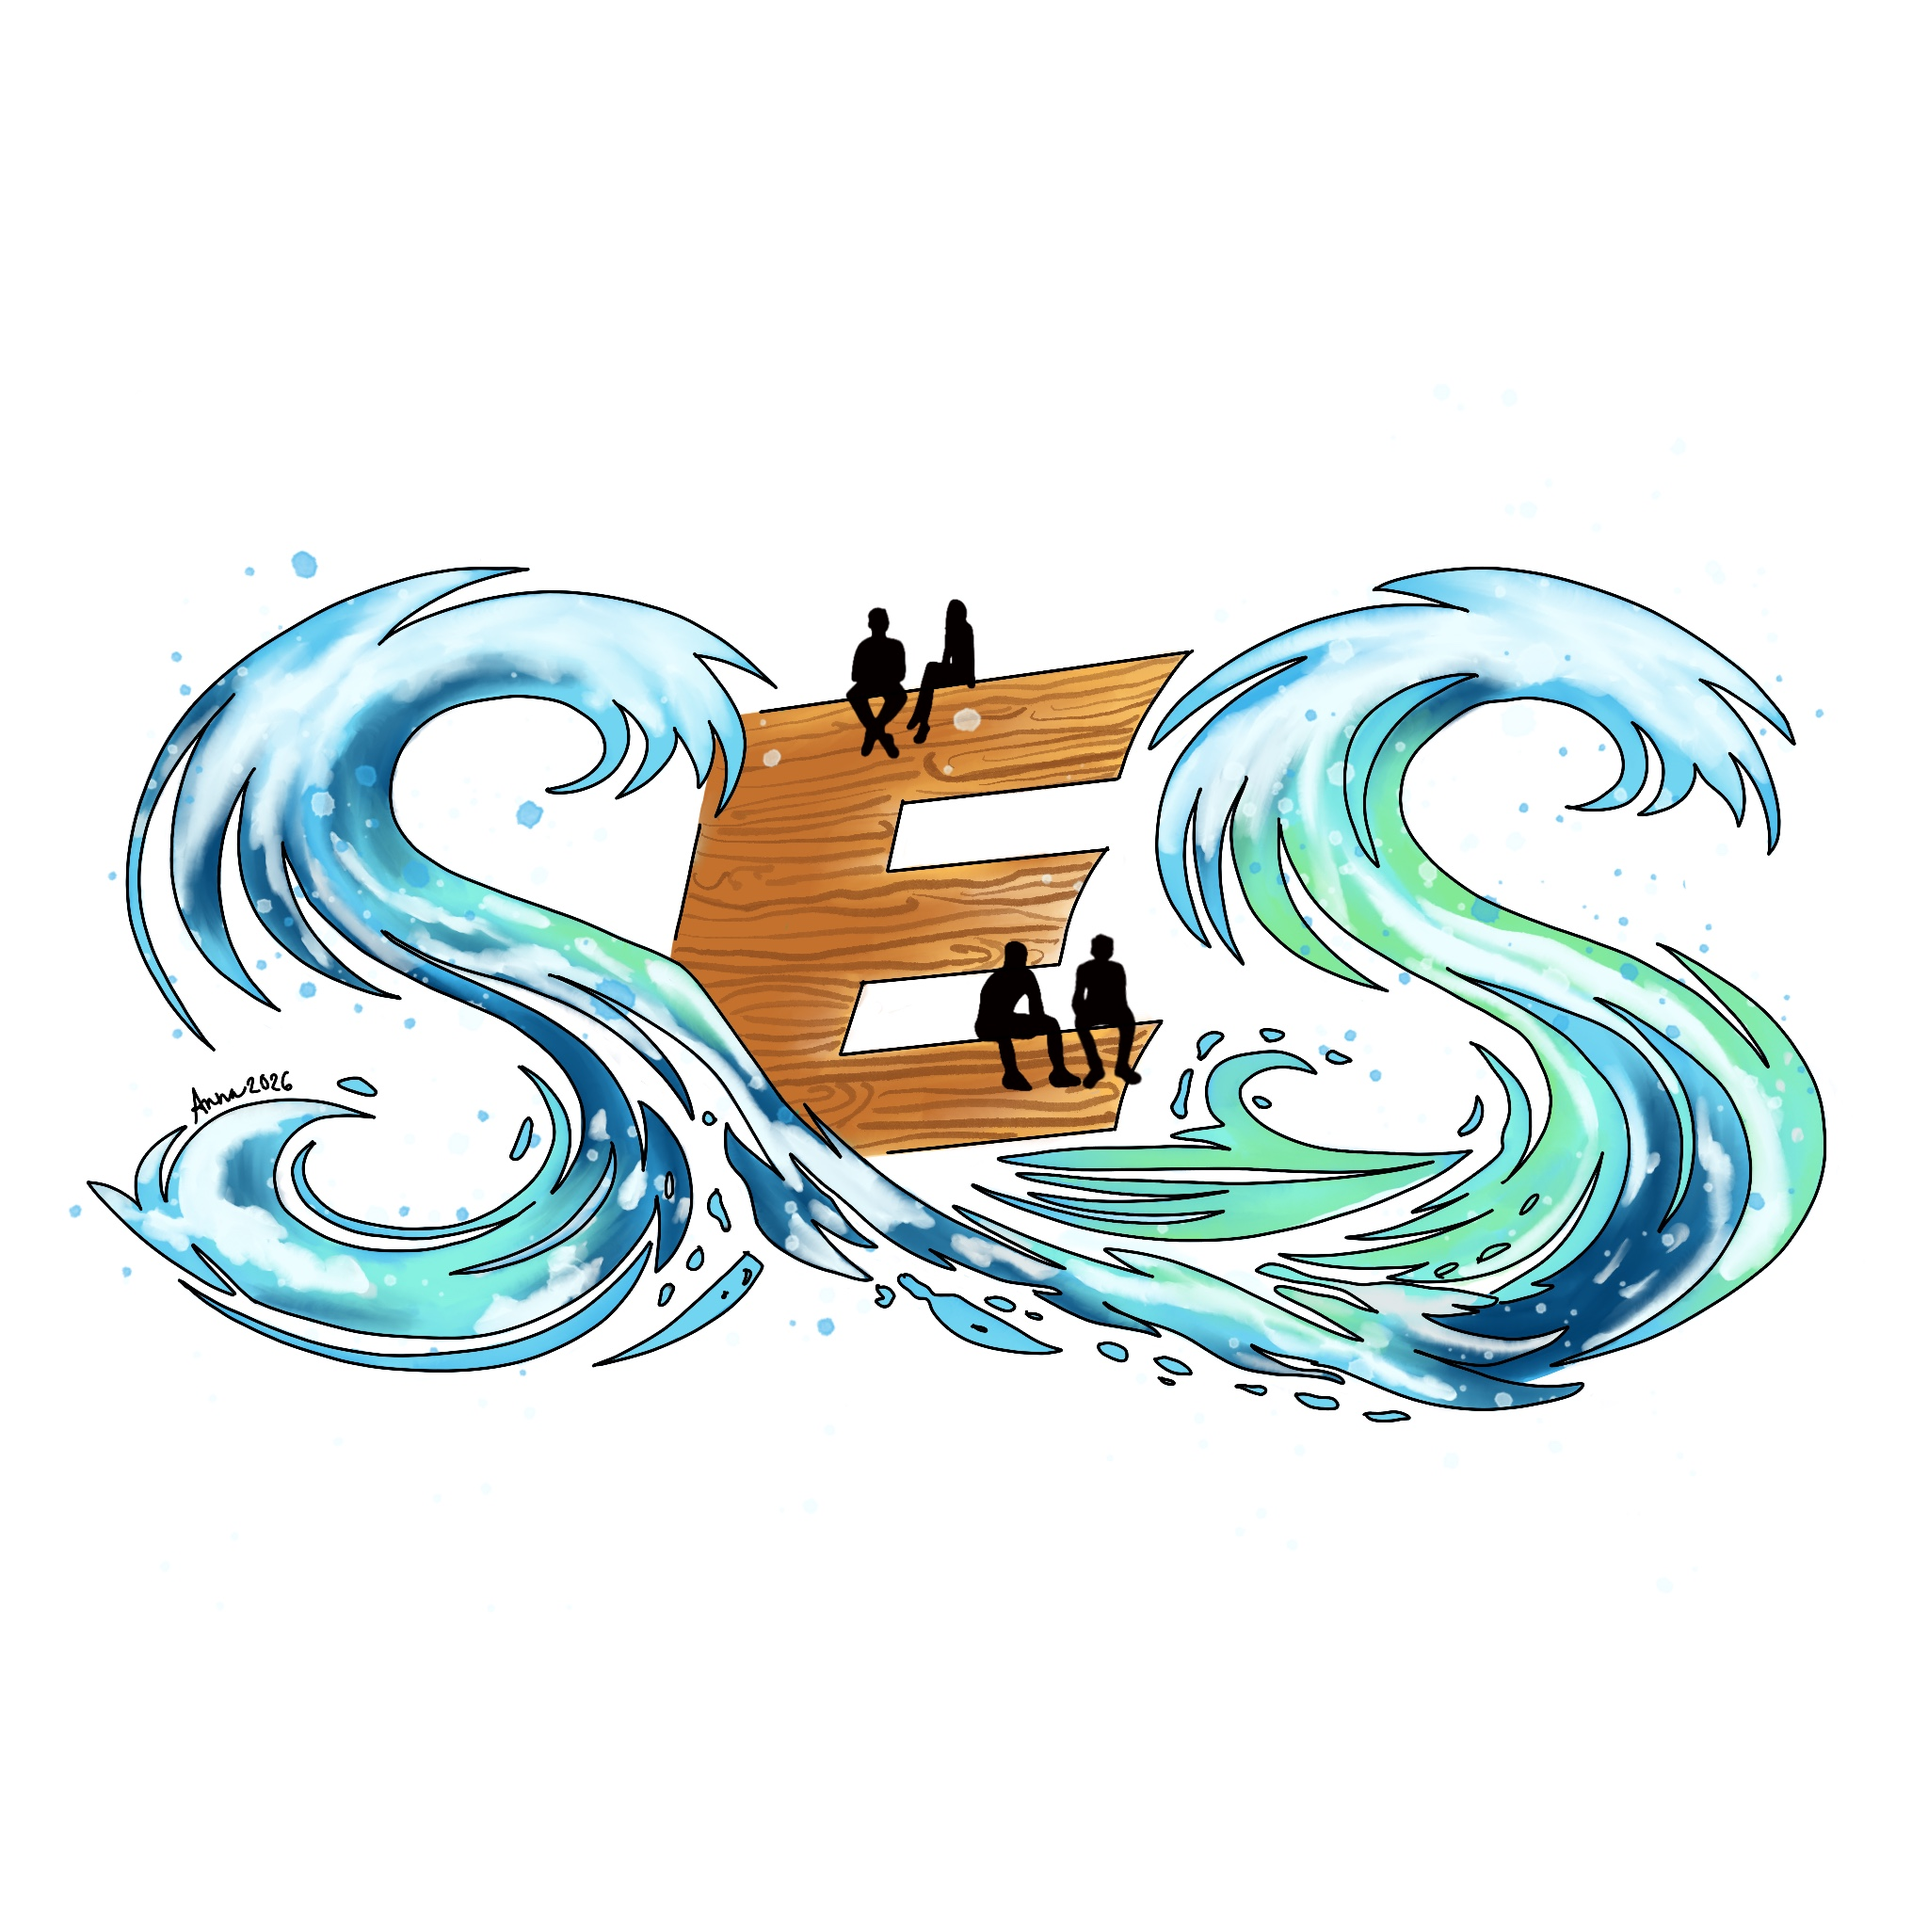
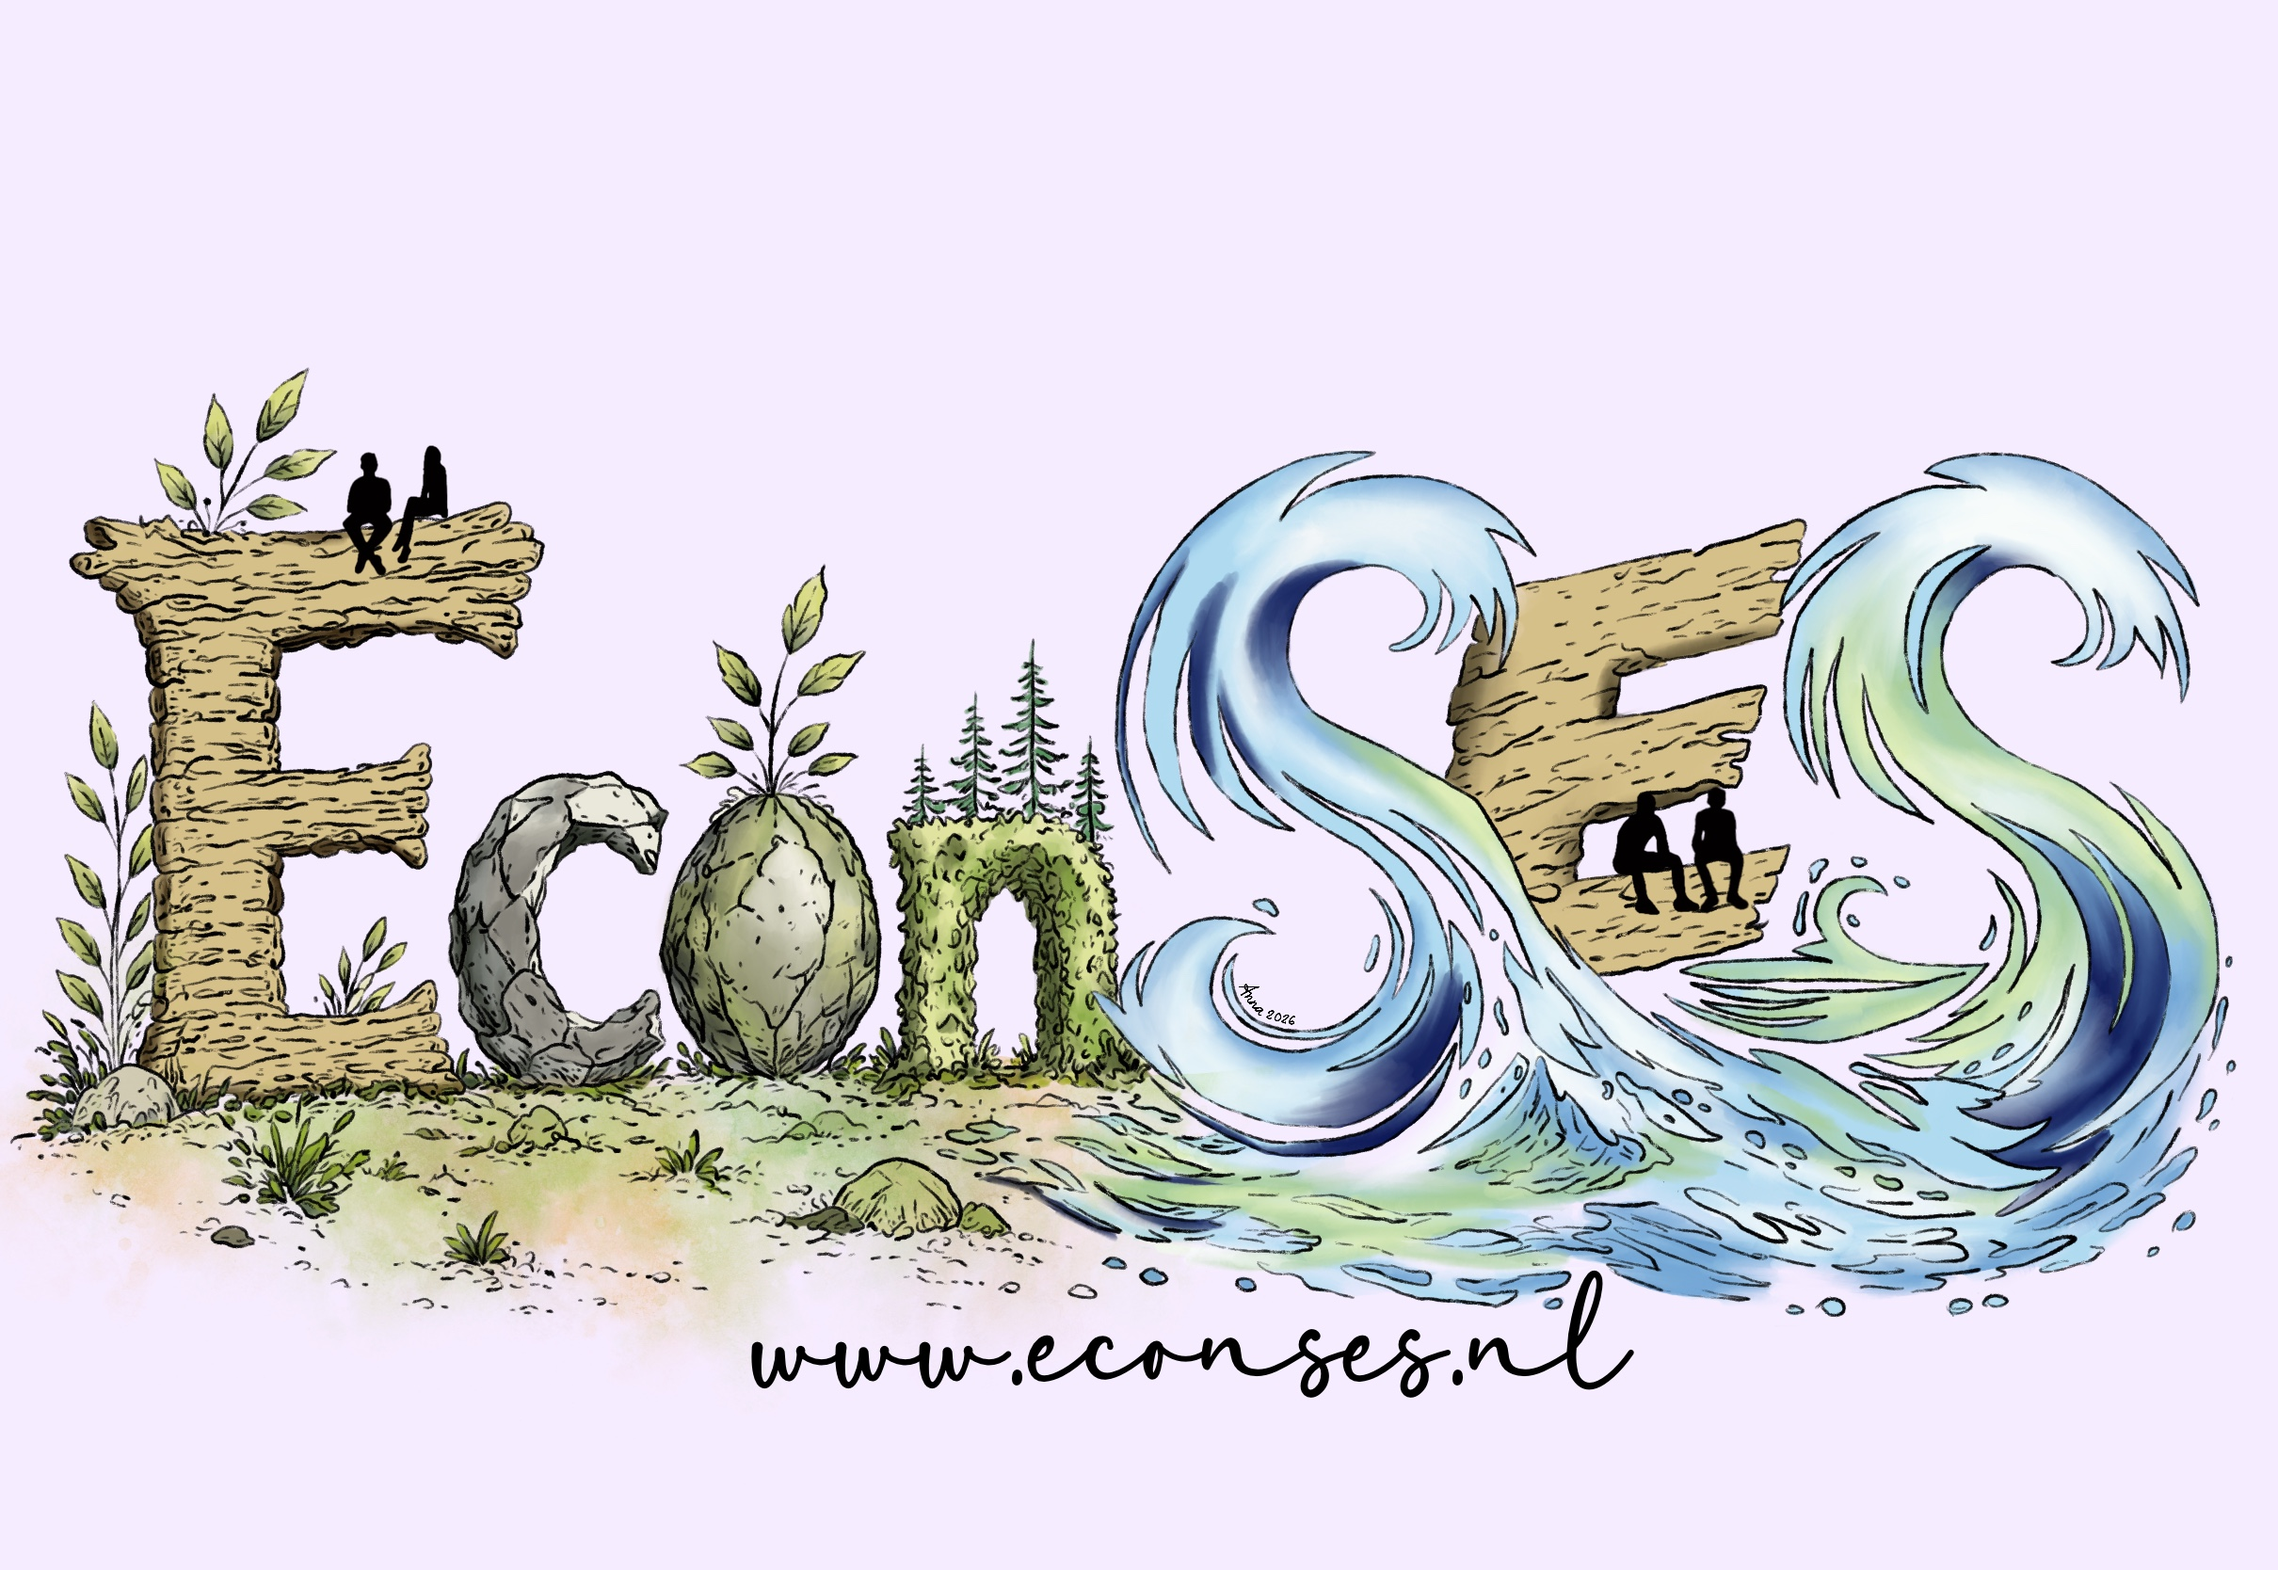
disappointment

diff --git a/content/authors/andries richter/_index.md b/content/authors/andries richter/_index.md
@@ -18,24 +18,25 @@ organizations:
     url: ''
 
 # Short bio (displayed in user profile at end of posts)
-bio: My research interests include distributed robotics, mobile computing and programmable matter.
+bio: My research focuses on the economics of social–ecological systems, using theoretical models, causal empirical methods, and economic experiments to understand how institutions and human behavior affect the sustainable management of natural resources.
 
 interests:
-  - Artificial Intelligence
-  - Computational Linguistics
-  - Information Retrieval
+  - Environmental Economics
+  - Natural Resource Economics
+  - Fisheries Economics
+  - Behavioral Economics
 
 education:
   courses:
     - course: PhD in Artificial Intelligence
-      institution: Stanford University
-      year: 2012
-    - course: MEng in Artificial Intelligence
-      institution: Massachusetts Institute of Technology
-      year: 2009
-    - course: BSc in Artificial Intelligence
-      institution: Massachusetts Institute of Technology
-      year: 2008
+      institution: Wageningen University and Research
+      year: 2011
+    - course: MSc Economics and Business
+      institution: University of Groningen
+      year: 2006
+    - course: BSc Economics and Business
+      institution: University of Groningen
+      year: 2003
 
 # Social/Academic Networking
 # For available icons, see: https://docs.hugoblox.com/getting-started/page-builder/#icons
@@ -44,16 +45,16 @@ education:
 social:
   - icon: envelope
     icon_pack: fas
-    link: 'mailto:test@example.org'
-  - icon: twitter
-    icon_pack: fab
-    link: https://twitter.com/GeorgeCushen
+    link: 'mailto:andries.richter@wur.nl'
+#  - icon: twitter
+#    icon_pack: fab
+#    link: https://twitter.com/GeorgeCushen
   - icon: google-scholar
     icon_pack: ai
-    link: https://scholar.google.co.uk/citations?user=sIwtMXoAAAAJ
-  - icon: github
-    icon_pack: fab
-    link: https://github.com/gcushen
+    link: https://scholar.google.com/citations?user=Si3b4iQAAAAJ&hl=en&oi=ao
+#  - icon: github
+#    icon_pack: fab
+#    link: https://github.com/gcushen
 # Link to a PDF of your resume/CV from the About widget.
 # To enable, copy your resume/CV to `static/files/cv.pdf` and uncomment the lines below.
 # - icon: cv
@@ -72,6 +73,4 @@ user_groups:
   - Core Team
 ---
 
-Nelson Bighetti is a professor of artificial intelligence at the Stanford AI Lab. His research interests include distributed robotics, mobile computing and programmable matter. He leads the Robotic Neurobiology group, which develops self-reconfiguring robots, systems of self-organizing robots, and mobile sensor networks.
-
-Lorem ipsum dolor sit amet, consectetur adipiscing elit. Sed neque elit, tristique placerat feugiat ac, facilisis vitae arcu. Proin eget egestas augue. Praesent ut sem nec arcu pellentesque aliquet. Duis dapibus diam vel metus tempus vulputate.
+Andries Richter is an Associate Professor at Environmental Economics and Natural Resources Group at Wageningen University & Research. His research focuses on the economics of social–ecological systems, with particular emphasis on how institutions, human behavior, and social norms shape the sustainable management of natural resources. He leads the Economics of Social–Ecological Systems Lab, where he combines theoretical modelling, causal empirical analysis, and economic experiments to study the interactions between society and ecosystems, with applications in environmental governance, marine systems, and renewable resource management.

diff --git a/content/_index.md b/content/_index.md
@@ -5,23 +5,40 @@ date: 2022-10-24
 type: landing
 
 sections:
-  - block: hero
+  # Full-width image section
+  - block: markdown
     content:
-      title: |
-        Economics of Social-Ecological Systems
-      image:
-        filename: welcome.jpg
+      title:
+      subtitle:
       text: |
-        <br>
-        
-        The **Economics of Social-Ecological Systems** is one of the four 
+        <div class="welcome-image">
+          <img src="/media/welcome.jpg"
+               alt="Economics of Social-Ecological Systems">
+        </div>
+    design:
+      columns: '1'
+      css_class: welcome-image-section
+      spacing:
+        padding: ["0", "0", "0", "0"]
+
+  # Introduction text section
+  - block: markdown
+    content:
+      title: Economics of Social-Ecological Systems
+      subtitle:
+      text: |
+        The **Economics of Social-Ecological Systems** is one of the four
         research themes of the **Environmental Economics and Natural Resource
-        Group** at **Wageningen University and Research**. At the 
-        **Economics of Social-Ecological Systems Lab** we investigate 
-        the economic drivers of social-ecological systems. Our research examines 
-        how policies, institutions, and trade-offs influence sustainable 
+        Group** at **Wageningen University and Research**.
+
+        At the **Economics of Social-Ecological Systems Lab**, we investigate
+        the economic drivers of social-ecological systems. Our research examines
+        how policies, institutions, and trade-offs influence sustainable
         resource management, ecosystem resilience, and socio-economic outcomes.
-  
+    design:
+      columns: '1'
+      css_class: welcome-description
+
   - block: portfolio
     content:
       title: Research Domains

diff --git a/content/authors/anna lou abatayo/_index.md b/content/authors/anna lou abatayo/_index.md
@@ -10,7 +10,7 @@ last_name: Abatayo
 superuser: false
 
 # Role/position
-role: Assistant Professor
+role: Associate Professor
 
 # Organizations/Affiliations
 organizations:
@@ -18,7 +18,7 @@ organizations:
     url: ''
 
 # Short bio (displayed in user profile at end of posts)
-bio: My research is on ex-ante and ex-post evaluation of environmental policies through economic experiments and impact evalaution methods.
+bio: My research is on ex-ante and ex-post evaluation of environmental policies through economic experiments and impact evaluation methods.
 
 interests:
   - Environmental Economics
